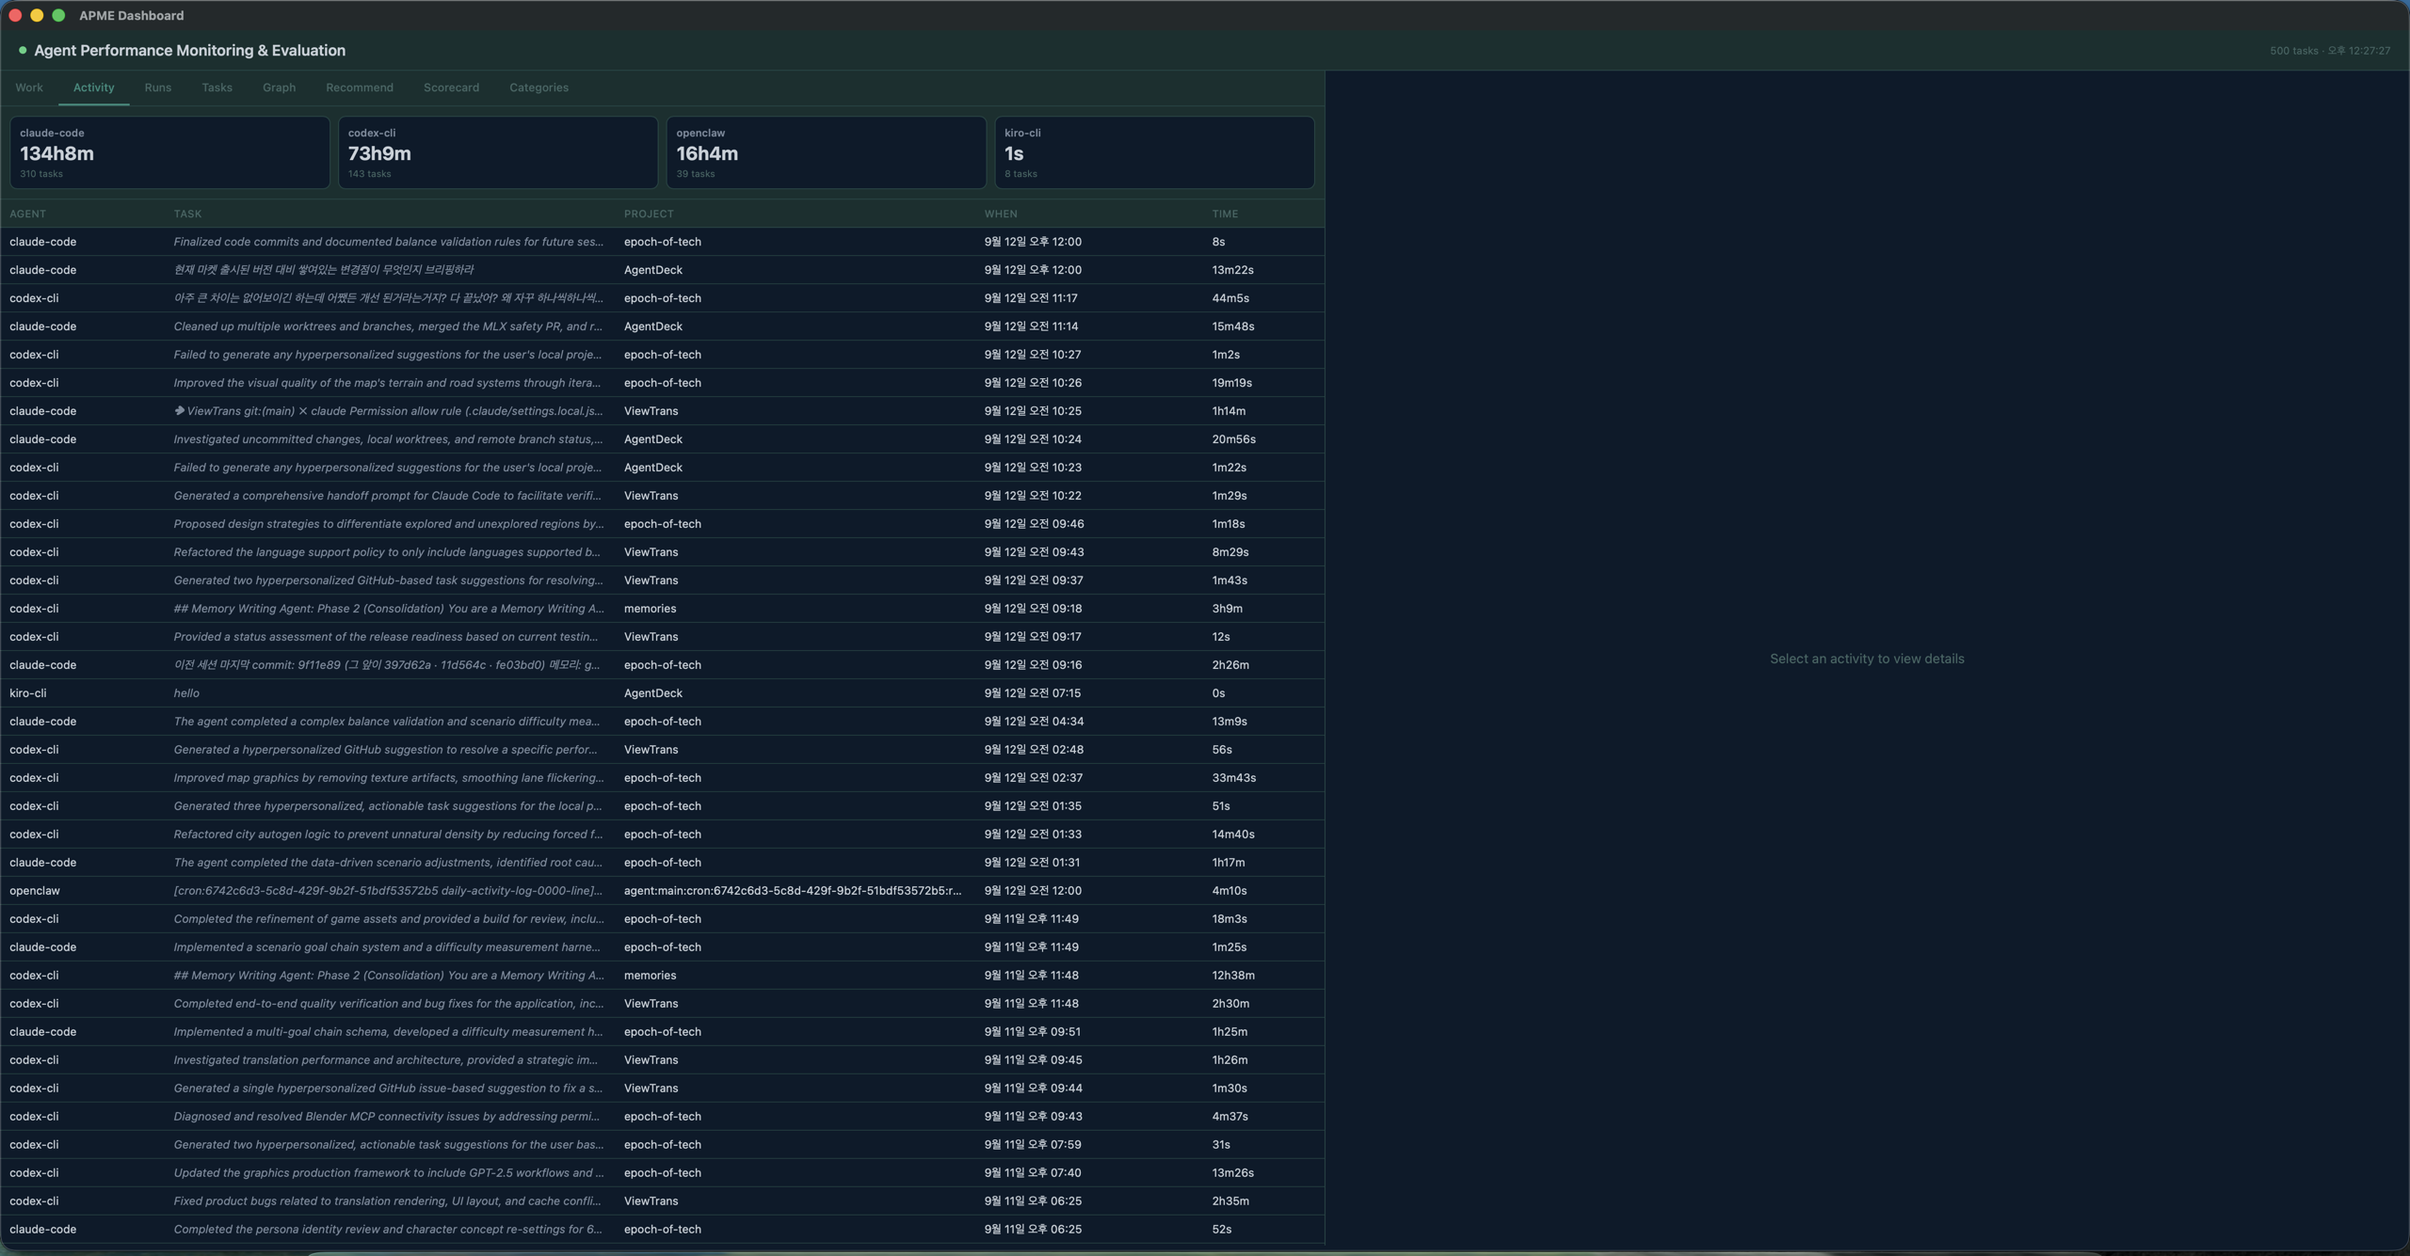
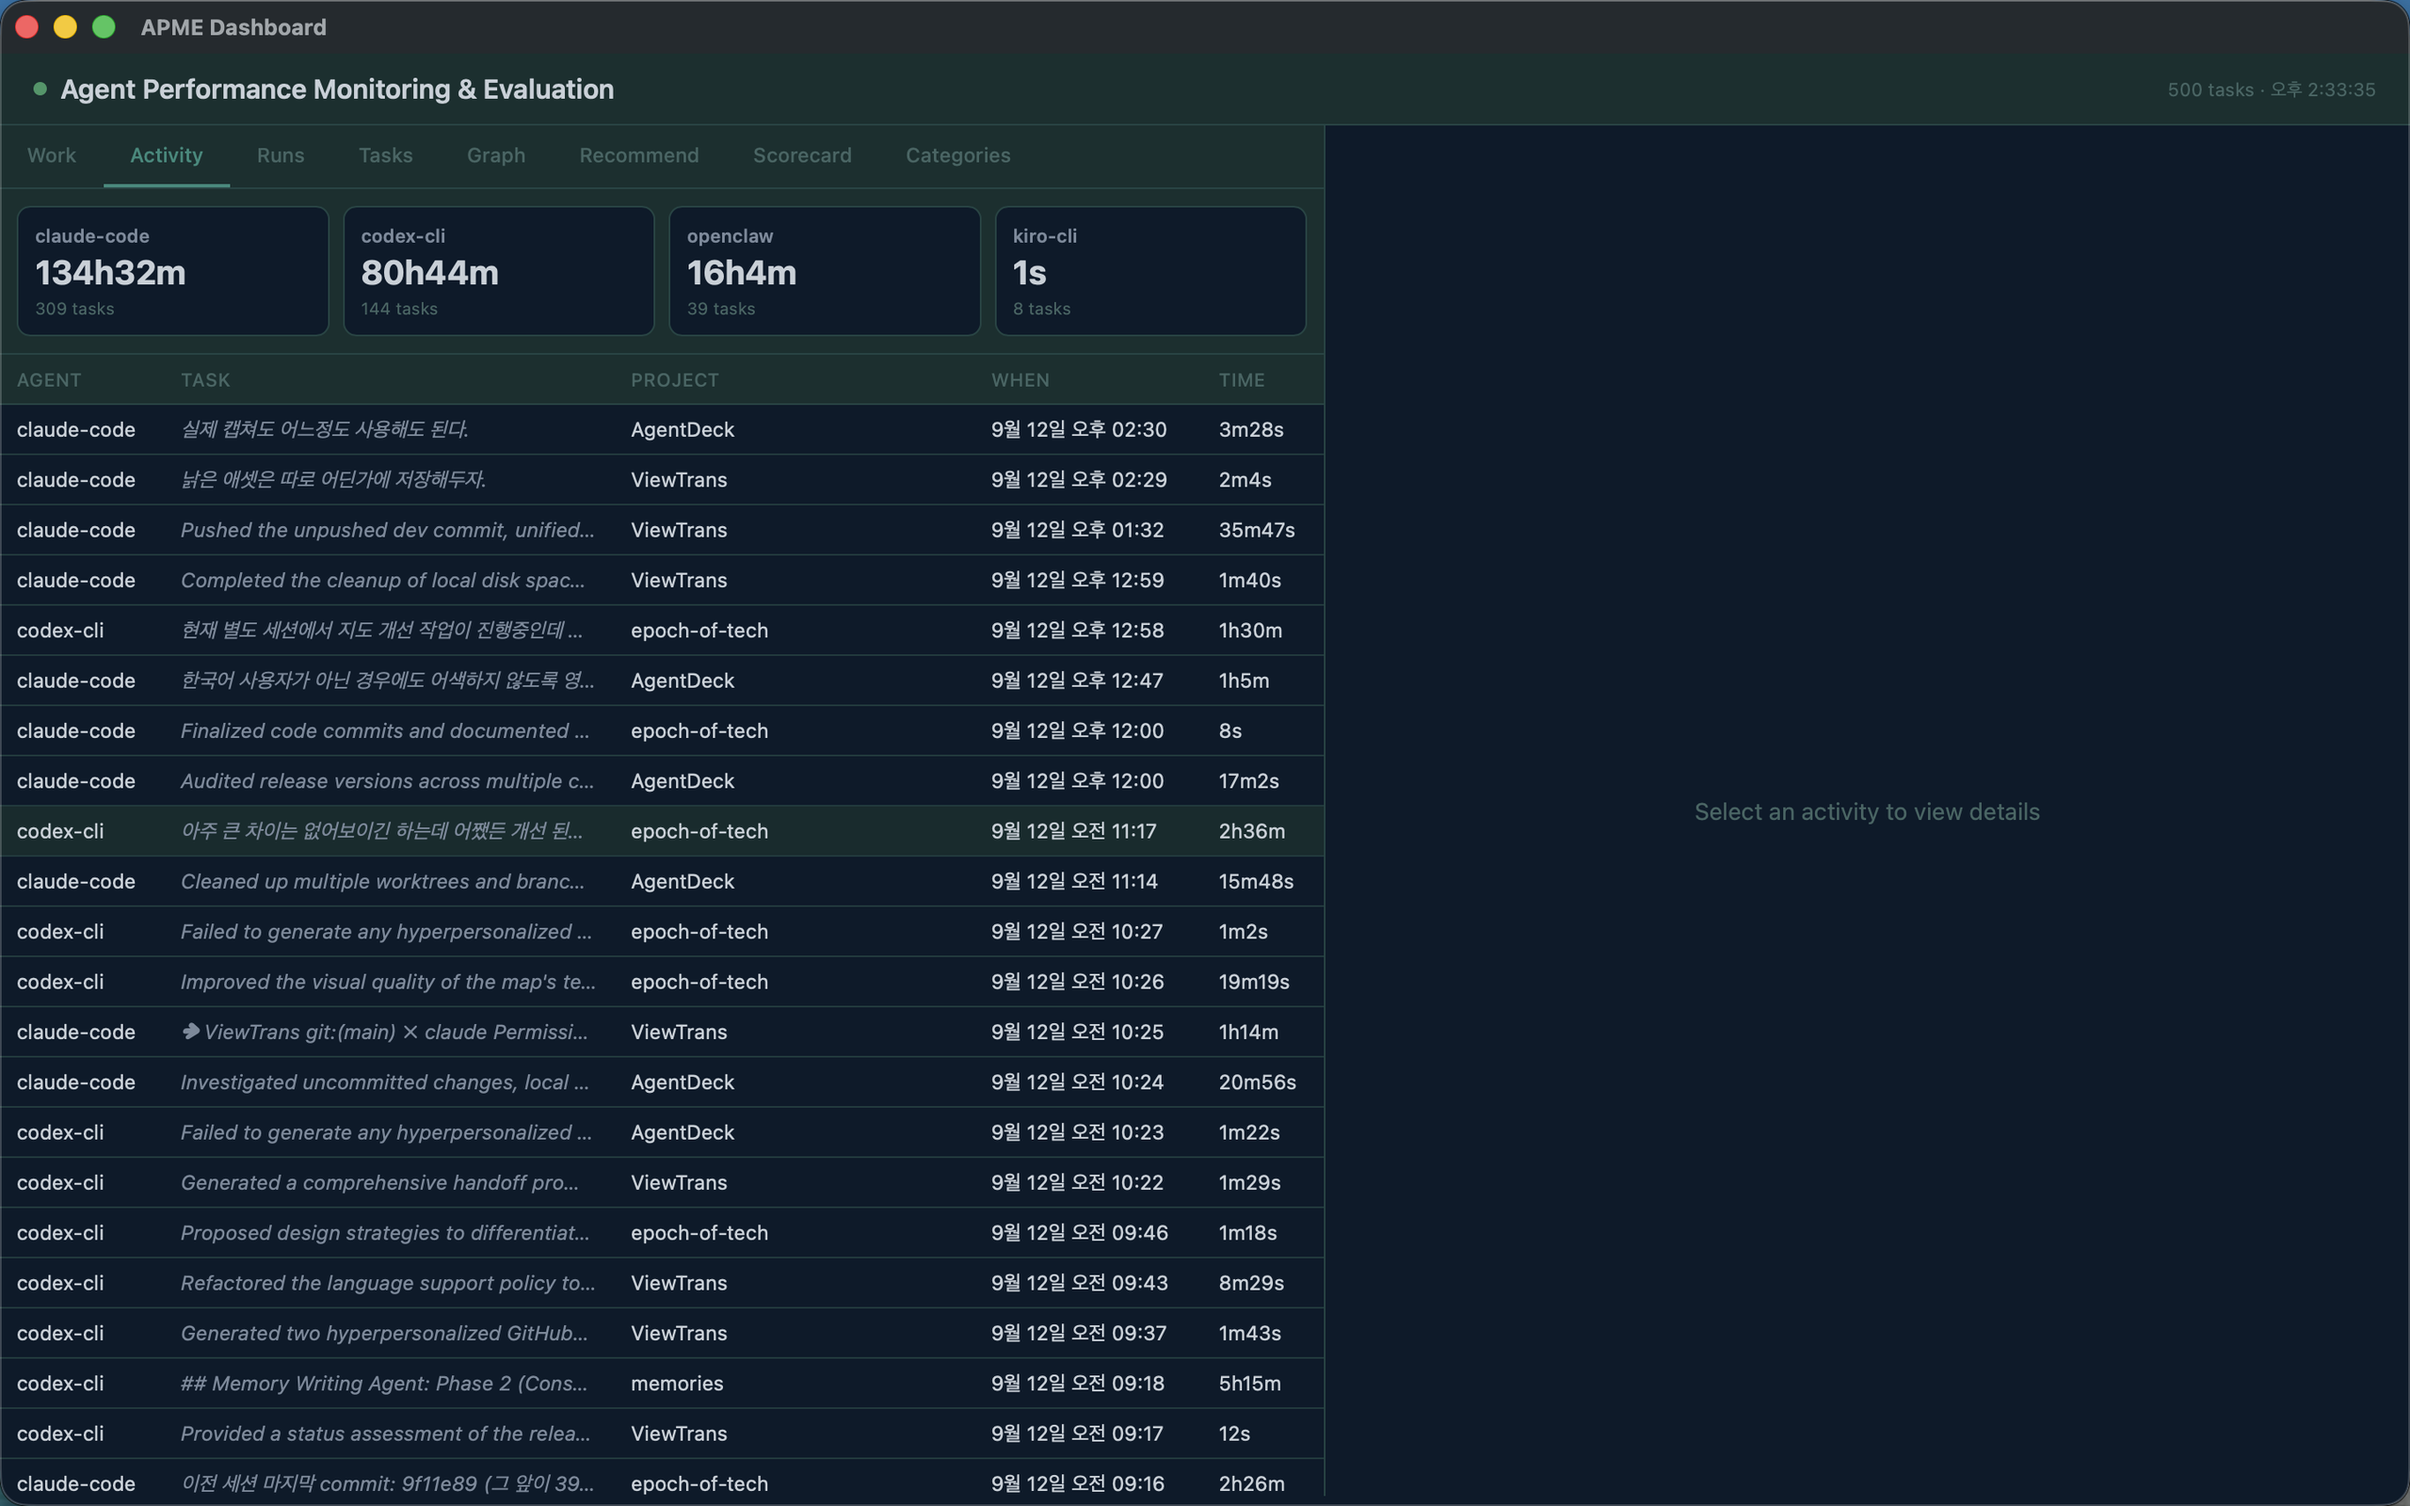
fix(media): reshoot the three real captures at a density a reader can use
The APME boards and the menu bar popup cannot come from the demo feed — they
read a much wider API surface than the two endpoints the orchestrator stubs, so
they only have anything to show against a daemon that has actually been
measuring work. Real data is the accepted trade for these three, and only these
three.

Framing was never part of that trade, and it was the real problem. They were
full-screen grabs of a 5120-wide desktop: the UI sat at a third of the density
a reader needs, and the Dock was in frame. `capture-live-screenshots.sh` pins
the window to the same 1440x900 logical geometry the App Store path uses,
asserts it took, hides other apps so nothing floats into the shot, and crops
the window rather than the screen. The menu bar popover is a popover and not a
window, so it is cropped to its measured bounds instead.

The script does not click the tab for you: SwiftUI's tab bar ignores a System
Events synthetic click, so it captures whatever tab is selected rather than
pretending it can drive one. It also does not scroll for you, but the runbook
now says to — the Work board opens on the newest task, which on a machine that
is taking the screenshot is the screenshot.

diff --git a/apple/appstore-submission/RECORDING_RUNBOOK.md b/apple/appstore-submission/RECORDING_RUNBOOK.md
@@ -77,10 +77,19 @@ feed now also supplies the port the panel asks (`AgentStateHolder.captureFeedPor
 Without that the panel queried the developer daemon on :9120 and put this
 machine's real sessions into an otherwise synthetic frame.
 
-Two things it does not cover yet: the APME boards (`apme-activity.png`,
-`apme-work.png`) read a much wider API surface than the two endpoints stubbed
-here, and the menu bar popup's activity summary reads the same one, so both are
-still real captures of a real desk.
+The APME boards and the menu bar popup's activity summary read a much wider
+API surface than the two endpoints stubbed here, so they only have anything to
+show against a daemon that has really been measuring work.
+`scripts/capture-live-screenshots.sh` handles those: same window-capture rule
+and the same 1440x900 density, real data by necessity. Real project names and
+whatever language the operator writes in are an accepted trade for those three
+images, and never for an App Store asset.
+
+It does not click the tab for you. SwiftUI's tab bar ignores a System Events
+synthetic click, so the script pins the window and captures whatever tab is
+selected rather than pretending it can drive one. Worth scrolling the Work
+board a row or two first: it opens on the newest task, which on a machine that
+is taking the screenshot is the screenshot.
 
 ## What a capture must not inherit
 
